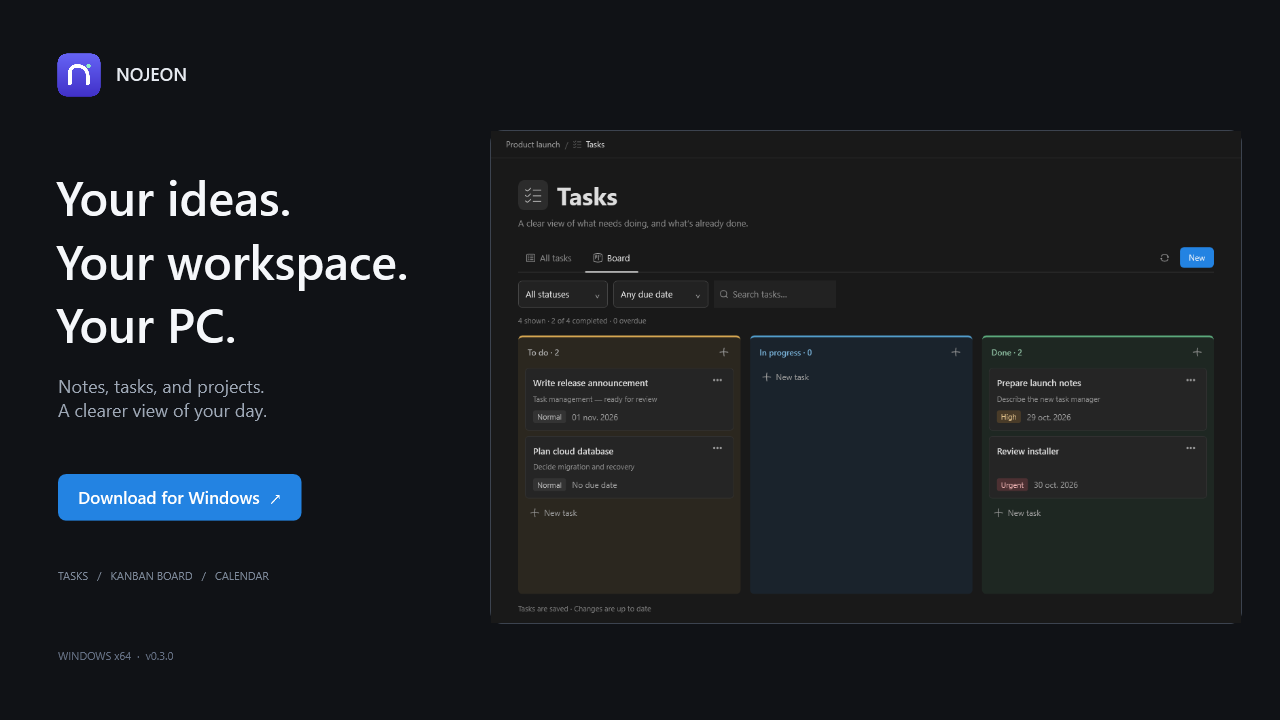
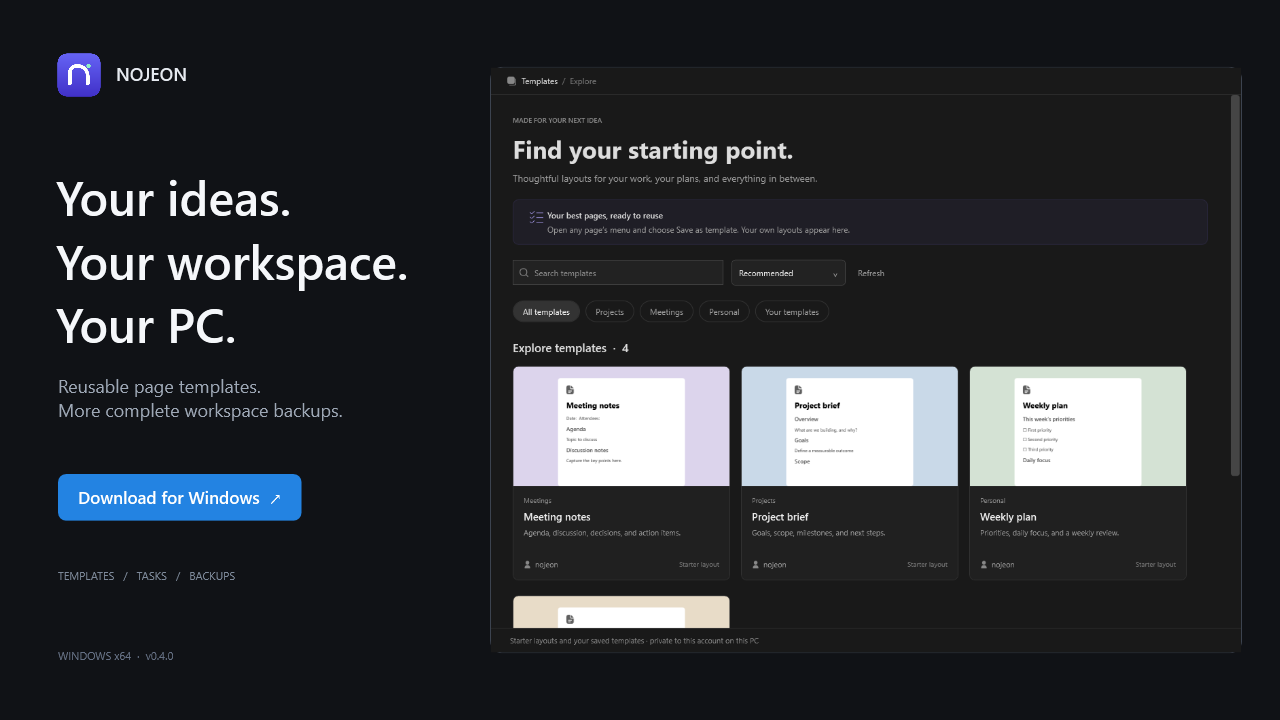
Publish v0.4.0 guides, gallery screenshots, and refreshed thumbnail

diff --git a/README.md b/README.md
@@ -4,19 +4,40 @@
 
 <p align="center">
   <img alt="Windows x64" src="https://img.shields.io/badge/Windows-x64-2383E2?style=flat-square">
-  <img alt="Version 0.3.0" src="https://img.shields.io/badge/version-0.3.0-7563EB?style=flat-square">
+  <img alt="Version 0.4.0" src="https://img.shields.io/badge/version-0.4.0-7563EB?style=flat-square">
   <img alt="Desktop preview" src="https://img.shields.io/badge/status-desktop_preview-555555?style=flat-square">
 </p>
 
-<p align="center"><a href="https://github.com/deman404/nojeon-updates/releases/download/v0.3.0/nojeon-0.3.0-win-x64-Setup.exe"><img alt="Download nojeon for Windows" src="https://img.shields.io/badge/Download_for_Windows-v0.3.0-2383E2?style=for-the-badge"></a></p>
+<p align="center"><a href="https://github.com/deman404/nojeon-updates/releases/download/v0.4.0/nojeon-0.4.0-win-x64-Setup.exe"><img alt="Download nojeon for Windows" src="https://img.shields.io/badge/Download_for_Windows-v0.4.0-2383E2?style=for-the-badge"></a></p>
 
-<p align="center"><a href="https://github.com/deman404/nojeon-updates/releases/tag/v0.3.0">Release notes &amp; checksum</a> &nbsp;·&nbsp; <a href="docs/INSTALLATION.md">Installation guide</a> &nbsp;·&nbsp; <a href="docs/USER-GUIDE.md">User guide</a></p>
+<p align="center"><a href="https://github.com/deman404/nojeon-updates/releases/tag/v0.4.0">Release notes &amp; checksum</a> &nbsp;·&nbsp; <a href="docs/INSTALLATION.md">Installation guide</a> &nbsp;·&nbsp; <a href="docs/USER-GUIDE.md">User guide</a></p>
 
-[![nojeon desktop workspace — click to download the Windows installer](docs/screenshots/thumbnail.png)](https://github.com/deman404/nojeon-updates/releases/download/v0.3.0/nojeon-0.3.0-win-x64-Setup.exe)
+[![nojeon desktop workspace — click to download the Windows installer](docs/screenshots/thumbnail.png)](https://github.com/deman404/nojeon-updates/releases/download/v0.4.0/nojeon-0.4.0-win-x64-Setup.exe)
 
-**Before you download:** this desktop preview requires **Windows x64 and a separately installed MySQL Server 8+**. The .NET runtime is included. The installer is currently unsigned; see [release details](https://github.com/deman404/nojeon-updates/releases/tag/v0.3.0) before installing.
+**Before you download:** this desktop preview requires **Windows x64 and a separately installed MySQL Server 8+**. The .NET runtime is included. The installer is currently unsigned; see [release details](https://github.com/deman404/nojeon-updates/releases/tag/v0.4.0) before installing.
 
-## New in 0.3.0: your tasks, in focus
+## New in 0.4.0: a head start for every page
+
+Browse a gallery of starter layouts and your own saved templates. Search, filter categories, and open a card to explore its layout. Choose **Use this template** to create an independent page—or save your best page from **··· > Save as template**.
+
+![Reusable page templates gallery](docs/screenshots/templates.png)
+
+<details>
+<summary>Explore Light mode and template details</summary>
+
+![Templates gallery in Light mode](docs/screenshots/templates-light.png)
+
+![Template detail page](docs/screenshots/template-detail.png)
+
+</details>
+
+### More complete backups
+
+Workspace archives now include the selected workspace’s tasks and **all calendars/events for your account**, along with pages and files. Restore creates a new workspace and separate calendar copies. Older page-only archives remain supported.
+
+[Template guide](docs/TEMPLATES.md) · [Backup guide](docs/BACKUPS.md) · [Release notes](https://github.com/deman404/nojeon-updates/releases/tag/v0.4.0)
+
+## Manage tasks your way
 
 Switch between a compact task table and a colored Kanban board. Give each task a priority, due date, and notes; search and filter your list, then move tasks from **To do** to **In progress** to **Done**. Tasks stay with their workspace and save to your configured database.
 
@@ -31,7 +52,7 @@ Switch between a compact task table and a colored Kanban board. Give each task a
 
 </details>
 
-[How to use Tasks](docs/TASKS.md) · [What changed in 0.3.0](https://github.com/deman404/nojeon-updates/releases/tag/v0.3.0)
+[How to use Tasks](docs/TASKS.md)
 
 ## Make room for the work that matters
 
@@ -67,11 +88,11 @@ Import your existing notes, export a page, or save a workspace archive with its 
 
 ![Import, export, and workspace backup controls in nojeon settings](docs/screenshots/backup-export.png)
 
-Workspace archives are not encrypted and do not include tasks or calendar events. Keep them private, and use a MySQL database backup to preserve tasks and calendars.
+Version 2 workspace archives include workspace tasks and all account calendars/events. They are not encrypted; keep them private. Saved template libraries stay on this PC and are not part of workspace archives. See the [backup guide](docs/BACKUPS.md).
 
 ## From download to your first page
 
-1. **Install nojeon.** [Download the Windows installer](https://github.com/deman404/nojeon-updates/releases/download/v0.3.0/nojeon-0.3.0-win-x64-Setup.exe), run it, and open nojeon from the Start menu.
+1. **Install nojeon.** [Download the Windows installer](https://github.com/deman404/nojeon-updates/releases/download/v0.4.0/nojeon-0.4.0-win-x64-Setup.exe), run it, and open nojeon from the Start menu.
 2. **Connect your database.** Install and start [MySQL Community Server 8+](https://dev.mysql.com/downloads/mysql/), then enter your connection details in nojeon. Choose **Test connection**, then **Create / update database and continue**.
 3. **Create your app account.** Sign in and create your first page from the sidebar. Your nojeon account is separate from a notion.com account.
 
@@ -83,15 +104,15 @@ Need more detail? Follow the [installation guide](docs/INSTALLATION.md) or explo
 
 **Where your data lives.** Accounts, pages, tasks, and calendar records use your configured MySQL database. Imported files, preferences, and encrypted recovery drafts stay on your PC. Protected local settings use Windows protection for your Windows account.
 
-**What this preview includes.** The current downloadable version is **0.3.0**, with rich pages, workspace task management, local calendar, search, import/export, and workspace backups. It bundles a .NET 11 release-candidate runtime.
+**What this preview includes.** The current downloadable version is **0.4.0**, with rich pages, reusable page templates, workspace tasks, a local calendar, and planning backups. It bundles a .NET 11 release-candidate runtime.
 
 **What is coming next.** Cloud database support is the next planned milestone. Collaboration, AI, Google sign-in, and external calendar synchronization are not available in this preview. See the [roadmap](ROADMAP.md) for planned work.
 
-**Checking your download.** The [release page](https://github.com/deman404/nojeon-updates/releases/tag/v0.3.0) includes the installer SHA-256 and a PowerShell command to check it. Download the `.exe` under Assets to install the app. GitHub's automatic “Source code” archives contain this repository's documentation.
+**Checking your download.** The [release page](https://github.com/deman404/nojeon-updates/releases/tag/v0.4.0) includes the installer SHA-256 and a PowerShell command to check it. Download the `.exe` under Assets to install the app. GitHub's automatic “Source code” archives contain this repository's documentation.
 
-### Upgrading from 0.2.0
+### Upgrading from an earlier version
 
-Back up your MySQL database and local files, close nojeon, and run the new installer. Complete the database update when prompted, then open **Tasks** from the sidebar. See the [upgrade instructions](docs/INSTALLATION.md).
+Back up your MySQL database and local files, close nojeon, and run the new installer. Apply any pending database updates, then open **Templates** from the sidebar. Version 0.4.0 itself introduces no new database migration. See the [upgrade instructions](docs/INSTALLATION.md).
 
 ## Follow along
 

diff --git a/docs/CALENDAR.md b/docs/CALENDAR.md
@@ -1,0 +1,86 @@
+# Local calendar
+
+Choose **Calendar** in the workspace sidebar or its collapsed rail. It opens a
+full calendar workspace with a mini month, colored calendar list, date navigation,
+time grid, and event details/upcoming panel. **Back to workspace** returns to notes.
+
+## Events and calendars
+
+- Click a timed slot or drag a range to create an event. Click the all-day row for
+  an all-day event. The **+** button and `N` also start a new event.
+- Click an event to edit its title, calendar, dates/times, location, meeting link,
+  linked page, notes, and recurrence. Choose **Save** or press `Ctrl+Enter`.
+- Drag a timed event to move it between days/times; drag its bottom edge to resize.
+  Times snap to 15-minute intervals. Overlapping events use separate columns.
+- Deleting an event requires confirmation. Repeating events are edited/deleted as
+  a whole series, and dragging/resizing a series asks for confirmation.
+- Use the calendar checkboxes to show/hide calendars. The calendar menu supports
+  rename, color, and confirmed deletion of the calendar and its events. At least
+  one calendar is retained.
+- Link an owned active page to keep notes nearby. Opening it returns to the
+  correct workspace. Event URLs support HTTP/HTTPS links opened on explicit click.
+
+Unsaved event edits prompt before leaving or switching events. The event editor
+uses an explicit Save action; drag/resize changes save after release. Workspace
+page autosave is independent.
+
+## Navigation
+
+The view selector supports **Day**, **3 days**, **Week**, and **Month**. Weeks begin
+on Monday. Use the mini month, previous/next arrows, or Today to change dates.
+The selected view and display time zone are saved per account.
+
+![Month calendar](screenshots/calendar-month.png)
+
+| Key | Action |
+| --- | --- |
+| `T` | Today |
+| `N` | New event |
+| `D`, `W`, `M` | Day, week, month |
+| `Left`, `Right` | Previous/next date range |
+| `Ctrl+Enter` | Save the open event |
+| `Escape` | Close the event editor, with an unsaved-changes prompt if needed |
+
+Letter/navigation shortcuts do not intercept text input. Escape leaves an open
+date/calendar selector to handle its own dismissal first.
+
+## Dates, time zones, and recurrence
+
+Events store UTC start/end instants and an event time-zone ID. The display zone
+can change independently. Editing a title in another display zone preserves the
+event's recurrence zone. All-day dates retain their original calendar dates when
+the display time zone changes.
+
+Daily, weekly, and monthly repeats preserve wall-clock time across daylight-saving
+changes. Monthly repeats use the original day and clamp short months without
+drifting subsequent months. Repeat-until dates are inclusive. Nonexistent spring
+clock-change times are rejected for direct entry and skipped during recurrence;
+ambiguous autumn entries use standard time consistently. Single events retain
+their stored UTC instant, including during the repeated autumn hour.
+
+## Persistence and setup
+
+`AddLocalCalendars` adds account-owned `Calendars` and `CalendarEvents` tables.
+Startup detects missing migrations and offers database setup/update. Developers
+can also apply the schema with:
+
+```powershell
+dotnet ef database update --project notion.csproj --startup-project notion.csproj
+```
+
+Calendars belong to the signed-in account across its workspaces. Database queries
+and writes enforce ownership, and revision tokens reject stale edits/deletes.
+Visibility and event metadata survive restart. New accounts start with an empty
+Personal calendar; demonstration events exist only in the isolated verifier.
+
+Calendar records are account-level data, separate from workspace snapshots.
+Version 0.4.0 and later write version 2 `.notionbackup` archives containing all calendars
+and events for the signed-in account, plus the selected workspace’s tasks, pages,
+and files. Restore creates separate calendar copies without merging or replacing
+existing calendars. Page links within the restored workspace are remapped; links
+to pages outside that workspace are omitted. Repeated restore creates more copies.
+The published 0.3.0 installer and older version 1 archives are page/file-only; keep
+using MySQL backups for calendars until upgrading to a build with version 2 support.
+Google/iCloud synchronization, invitations, notifications, and single-occurrence
+exceptions are not part of this local calendar version.
+

diff --git a/docs/INSTALLATION.md b/docs/INSTALLATION.md
@@ -6,11 +6,11 @@
 - MySQL Community Server 8 or newer, installed and running separately.
 - A nojeon Windows installer or portable package from a published release.
 
-The 0.3.0 desktop preview bundles a .NET 11 release-candidate runtime and is currently unsigned. You do not need to install the .NET SDK to use it.
+The 0.4.0 desktop preview bundles a .NET 11 release-candidate runtime and is currently unsigned. You do not need to install the .NET SDK to use it.
 
 ## Install
 
-1. [Download the Windows x64 installer](https://github.com/deman404/nojeon-updates/releases/download/v0.3.0/nojeon-0.3.0-win-x64-Setup.exe) and read the [release notes and installer SHA-256](https://github.com/deman404/nojeon-updates/releases/tag/v0.3.0).
+1. [Download the Windows x64 installer](https://github.com/deman404/nojeon-updates/releases/download/v0.4.0/nojeon-0.4.0-win-x64-Setup.exe) and read the [release notes and installer SHA-256](https://github.com/deman404/nojeon-updates/releases/tag/v0.4.0).
 2. Run the Windows Setup executable. Installation is per Windows user and does not require administrator access. Alternatively, download the portable ZIP from the release page, extract it, and run `nojeon.exe`.
 3. Start MySQL, then open nojeon.
 4. Enter the MySQL server, port, database name, username, and password on the setup page. Use a dedicated database and an account permitted to create or update its tables. For a new database name, use at most 45 letters, numbers, or underscores.
@@ -27,6 +27,10 @@ Check that MySQL is running, the server and port are correct, and the database a
 
 The current preview does not provide a hosted cloud database or automatic cloud migration.
 
-## Tasks in 0.3.0
+## Tasks in 0.4.0
 
-After installing, complete the database update when prompted. Open **Tasks** in the sidebar to use the table or Kanban board. Back up MySQL to preserve tasks and calendars; workspace archives contain pages and files only.
+After installing, complete the database update when prompted. Open **Tasks** in the sidebar to use the table or Kanban board. Version 2 workspace archives include workspace tasks and all account calendars/events. Restore creates separate calendar copies; template libraries are not included.
+
+## New in 0.4.0
+
+Open Templates to browse layouts or save your own page from its menu. Workspace backup archives now include workspace tasks and all account calendars/events. Restore creates separate calendar copies. Saved template libraries remain on this PC and are not included in workspace archives. No new schema migration is introduced by 0.4.0; setup still handles pending migrations from older versions.

diff --git a/docs/TEMPLATES.md b/docs/TEMPLATES.md
@@ -1,0 +1,41 @@
+# Reusable page templates
+
+Open **Templates** in the sidebar to browse the full gallery page. Search by name
+or description, filter by Projects/Meetings/Personal/Your templates, or sort by
+name. Cards show real layout previews, category, and creator. Select a card to
+open its detail page, then choose **Use this template**. The app adds a new
+top-level page to your current workspace and
+saves it through the normal autosave/recovery flow. The library is also available
+from the collapsed sidebar.
+
+Three starter layouts are included: **Meeting notes**, **Project brief** (with a
+milestone table), and **Weekly plan**. Starter layouts cannot be renamed/deleted.
+
+To reuse your own layout, open a page's **···** menu (on its header or sidebar row)
+and choose **Save as template**. Enter a unique name. The saved template includes
+that page, active nested pages, rich formatting, tables, checklists, and copies of
+its image/attachment files. Trashed children are omitted. Templates preserve
+checkbox states; uncheck completed items before saving if they should start empty.
+
+Each use creates fresh page/block/file IDs and remaps links between included
+pages. Editing the original page or a created copy does not change the template.
+Deleting the template does not remove pages already made from it. External page
+links retain their original destinations.
+
+Open one of your templates in the gallery to **Rename** it or **Delete** it
+after confirmation. Save the edited page again under a new name to create another
+version of a layout. Existing pages are never replaced by applying a template.
+
+The gallery works in Light/Dark mode and adjusts its card columns to the available
+width. It contains bundled starter layouts and your own templates, not public
+community listings or online downloads.
+
+Saved templates are account-scoped local files under
+`%LOCALAPPDATA%\Notion\Templates\<account-id>` (or the configured local profile).
+They persist across app restarts, but are not cloud-synchronized or included in
+workspace backup archives. Their archives contain readable content/files, so keep
+the local profile private. Tasks and calendars are not part of a page template.
+
+Limits: 100 custom templates per account, 1,000 pages and 20,000 blocks per template,
+with the archive limits of 256 MB total, 32 MB manifest, and 100 MB per attachment.
+Available in nojeon 0.4.0 and later.

diff --git a/docs/BACKUPS.md b/docs/BACKUPS.md
@@ -1,0 +1,43 @@
+# Workspace backups in nojeon 0.4.0
+
+Open **Settings > Import / export > Save workspace backup**. Save the
+`.notionbackup` file somewhere private. Page edits are saved before the archive
+is created; finish and save task/calendar edits first.
+
+A version 2 backup includes the selected workspace's pages, hierarchy, formatting,
+tables, trash, managed files, and tasks, plus **all calendars and events for the
+signed-in account**. Calendars belong to the account, not to individual workspaces.
+Repeat the backup for each workspace whose pages and tasks you want to preserve.
+
+## Restore
+
+Choose **Restore workspace backup**, review the page/file/task/calendar/event
+counts, and enter a new workspace name. Restore creates a new workspace and
+separate, uniquely named calendar copies. Existing workspaces and calendars remain
+unchanged; repeated restores add further copies.
+
+Tasks keep their notes, priorities, status, and due dates. Calendars keep colors,
+visibility, event details, time zones, recurrence, and all-day dates. IDs are
+recreated for the destination account, and links to included pages are remapped.
+Event page links outside the selected workspace are omitted; ordinary text links
+outside the archive retain their original destination.
+
+The archive is validated before import. Workspace pages, tasks, calendars, and
+events are imported in one transaction. A failed restore rolls back database
+changes and cleans up newly copied attachment files.
+
+## Compatibility and limits
+
+- Version 1 archives from older releases still restore pages/files, without tasks
+  or calendars. Data absent from an old archive cannot be recovered from it.
+- Older applications cannot read version 2 archives. Upgrade to 0.4.0 or later.
+- Archives are **not encrypted**. They exclude passwords, database credentials,
+  and saved sessions, but their content and attached files are readable.
+- Saved template libraries are local profile files and are **not included**.
+- Markdown/HTML exports remain page/file-only.
+- Limits: 256 MB uncompressed archive, 32 MB manifest, 100 MB per attached file,
+  20,000 tasks, 1,000 calendars, and 20,000 events per archive.
+
+For a full local recovery copy, preserve your MySQL database and local profile
+(`%LOCALAPPDATA%\Notion` by default), including your template library and any
+separately configured imported-file storage.

diff --git a/docs/USER-GUIDE.md b/docs/USER-GUIDE.md
@@ -8,6 +8,10 @@ Open multiple pages in tabs or use side peek to reference a second page. Search 
 
 Pages autosave. Watch the save status; if a write fails, restore the database connection and use Retry. Encrypted local recovery drafts help preserve unsaved changes.
 
+## Reusable templates
+
+Open **Templates** in the sidebar to browse the gallery. Search, filter categories, open a card, and choose **Use this template**. Save your own layout using a page menu > Save as template. See [the template guide](TEMPLATES.md).
+
 ## Tasks
 
 Open **Tasks** in the sidebar. Use **All tasks** for the table or **Board** for status columns. Create a task with a title, notes, priority, due date, and status. Open a title to edit, click the status tag to advance it, or use the dots menu to change status or delete. Search titles/notes and filter by status and due date. See [the task guide](TASKS.md).
@@ -22,7 +26,7 @@ Events support colored calendars, all-day entries, linked pages, and daily, week
 
 Use **Settings > Import / export** to import Markdown/HTML documents or folders, export a page with referenced files, or save and restore a workspace archive. Repeat workspace backups for each workspace.
 
-**Workspace archives do not include tasks or calendar events.** Back up the MySQL database to preserve tasks and calendars. Workspace backup archives contain readable content and files and are not encrypted; keep them private. Markdown/HTML conversion does not preserve every complex layout exactly.
+**Version 2 workspace archives include the selected workspace's tasks and all account calendars/events.** Restore creates a new workspace and separate calendar copies. Older archives contain pages/files only. Saved template libraries are not included. See [the backup guide](BACKUPS.md). Workspace backup archives contain readable content and files and are not encrypted; keep them private. Markdown/HTML conversion does not preserve every complex layout exactly.
 
 ## Where data lives
 

diff --git a/docs/TASKS.md b/docs/TASKS.md
@@ -27,9 +27,16 @@ Tasks save explicitly rather than through page autosave. Database failures keep
 editor text available for retry. Tasks do not currently have offline drafts,
 reminders, recurring schedules, assignees, or calendar synchronization.
 
-**Backup:** existing `.notionbackup` workspace archives and Markdown/HTML exports
-cover pages/files, not tasks. Back up MySQL to preserve tasks. Deleting a workspace
-also deletes its tasks; restore of a page archive does not restore tasks.
+**Backup (0.4.0 and later):** version 2 `.notionbackup` archives include this
+workspace’s tasks and all account calendars/events, alongside pages and files.
+Restore creates a new workspace and separate calendar copies, with fresh IDs and
+page links remapped. Existing calendars stay unchanged. Calendar links to pages
+outside the saved workspace are omitted. Deleting a workspace also deletes its
+tasks. Backups are not encrypted; keep them private.
+
+The published 0.3.0 installer and older version 1 archives include pages/files only.
+New builds still read those archives. Older apps cannot read version 2 archives.
+Markdown/HTML exports continue to cover pages/files only.
 
 The `AddWorkspaceTasks` migration adds the Tasks table. Existing databases are
 offered a database update through the normal startup/setup flow.

diff --git a/CHANGELOG.md b/CHANGELOG.md
@@ -1,5 +1,19 @@
 # Product updates
 
+## 0.4.0 — Templates & planning backups — 2026-10-30
+
+- Added a full template gallery with preview cards, categories, search, sorting, details, and Light/Dark support.
+- Included Meeting notes, Project brief, and Weekly plan starter layouts.
+- Added Save as template, reuse, rename, and delete for local account-scoped templates, with independent nested pages and attachments.
+- Version 2 workspace archives now include workspace tasks and all account calendars/events.
+- Restore creates separate calendar copies and remaps links to restored pages, preserving recurrence, time zones, and all-day dates. Older version 1 archives remain readable.
+- Refreshed the branded thumbnail and gallery screenshots.
+
+Saved template libraries are local and not included in workspace archives. Backups are not encrypted. Older app versions cannot read version 2 archives. No new database migration is introduced by this release.
+
+[Release and downloads](https://github.com/deman404/nojeon-updates/releases/tag/v0.4.0)
+
+
 ## 0.3.0 — Tasks, your way — 2026-10-30
 
 - Added workspace task management in a compact table and colored Kanban board.

diff --git a/ROADMAP.md b/ROADMAP.md
@@ -18,13 +18,18 @@ Before release, the work needs to cover:
 
 Cloud database support does not by itself promise offline synchronization, live collaboration, shared workspaces, or external calendar integration. Those capabilities require separate scope and verification.
 
+## Shipped in 0.4.0
+
+- Reusable starter and personal templates with a full gallery page.
+- Workspace backup/restore for tasks and all account calendars/events.
+
 ## Shipped in 0.3.0
 
 - Workspace task management: table and colored Kanban views, due dates, priorities, notes, search, and filters.
 
 ## Further improvements
 
-- Task/calendar export and inclusion in account-level backups.
+- Dedicated task/calendar exports and backup coverage for saved template libraries.
 - A supported stable .NET runtime after verification.
 - Code signing and a clear application update policy.
 - Accessibility, keyboard navigation, and large-workspace performance improvements.
